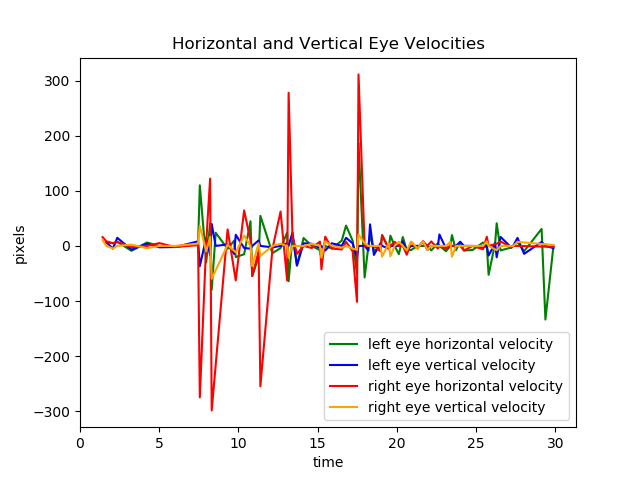
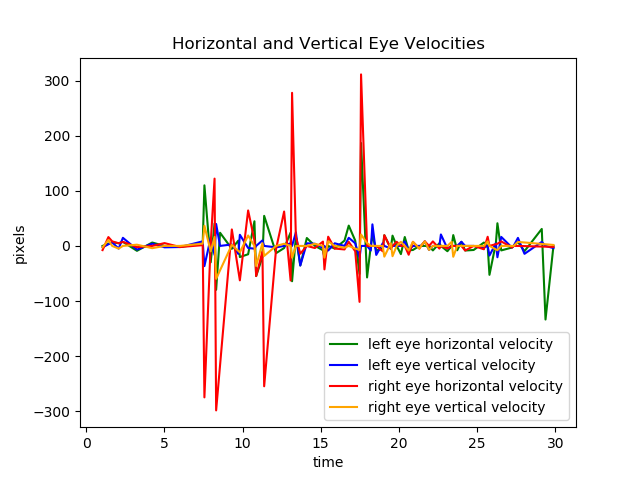
fixed analysis

diff --git a/analysis/analysis.py b/analysis/analysis.py
@@ -23,7 +23,7 @@ left_eye_x = []
 left_eye_y = []
 left_eye_t = []
 
-for i in range(1, len(right_eye_data)):
+for i in range(0, len(right_eye_data)):
     r_t = right_eye_data[i][1]
     r_x = right_eye_data[i][2]
     r_y = right_eye_data[i][3]
@@ -31,7 +31,7 @@ for i in range(1, len(right_eye_data)):
     right_eye_x.append(r_x)
     right_eye_y.append(r_y)
 
-for i in range(1, len(left_eye_data)):
+for i in range(0, len(left_eye_data)):
     l_t = left_eye_data[i][1]
     l_x = left_eye_data[i][2]
     l_y = left_eye_data[i][3]
